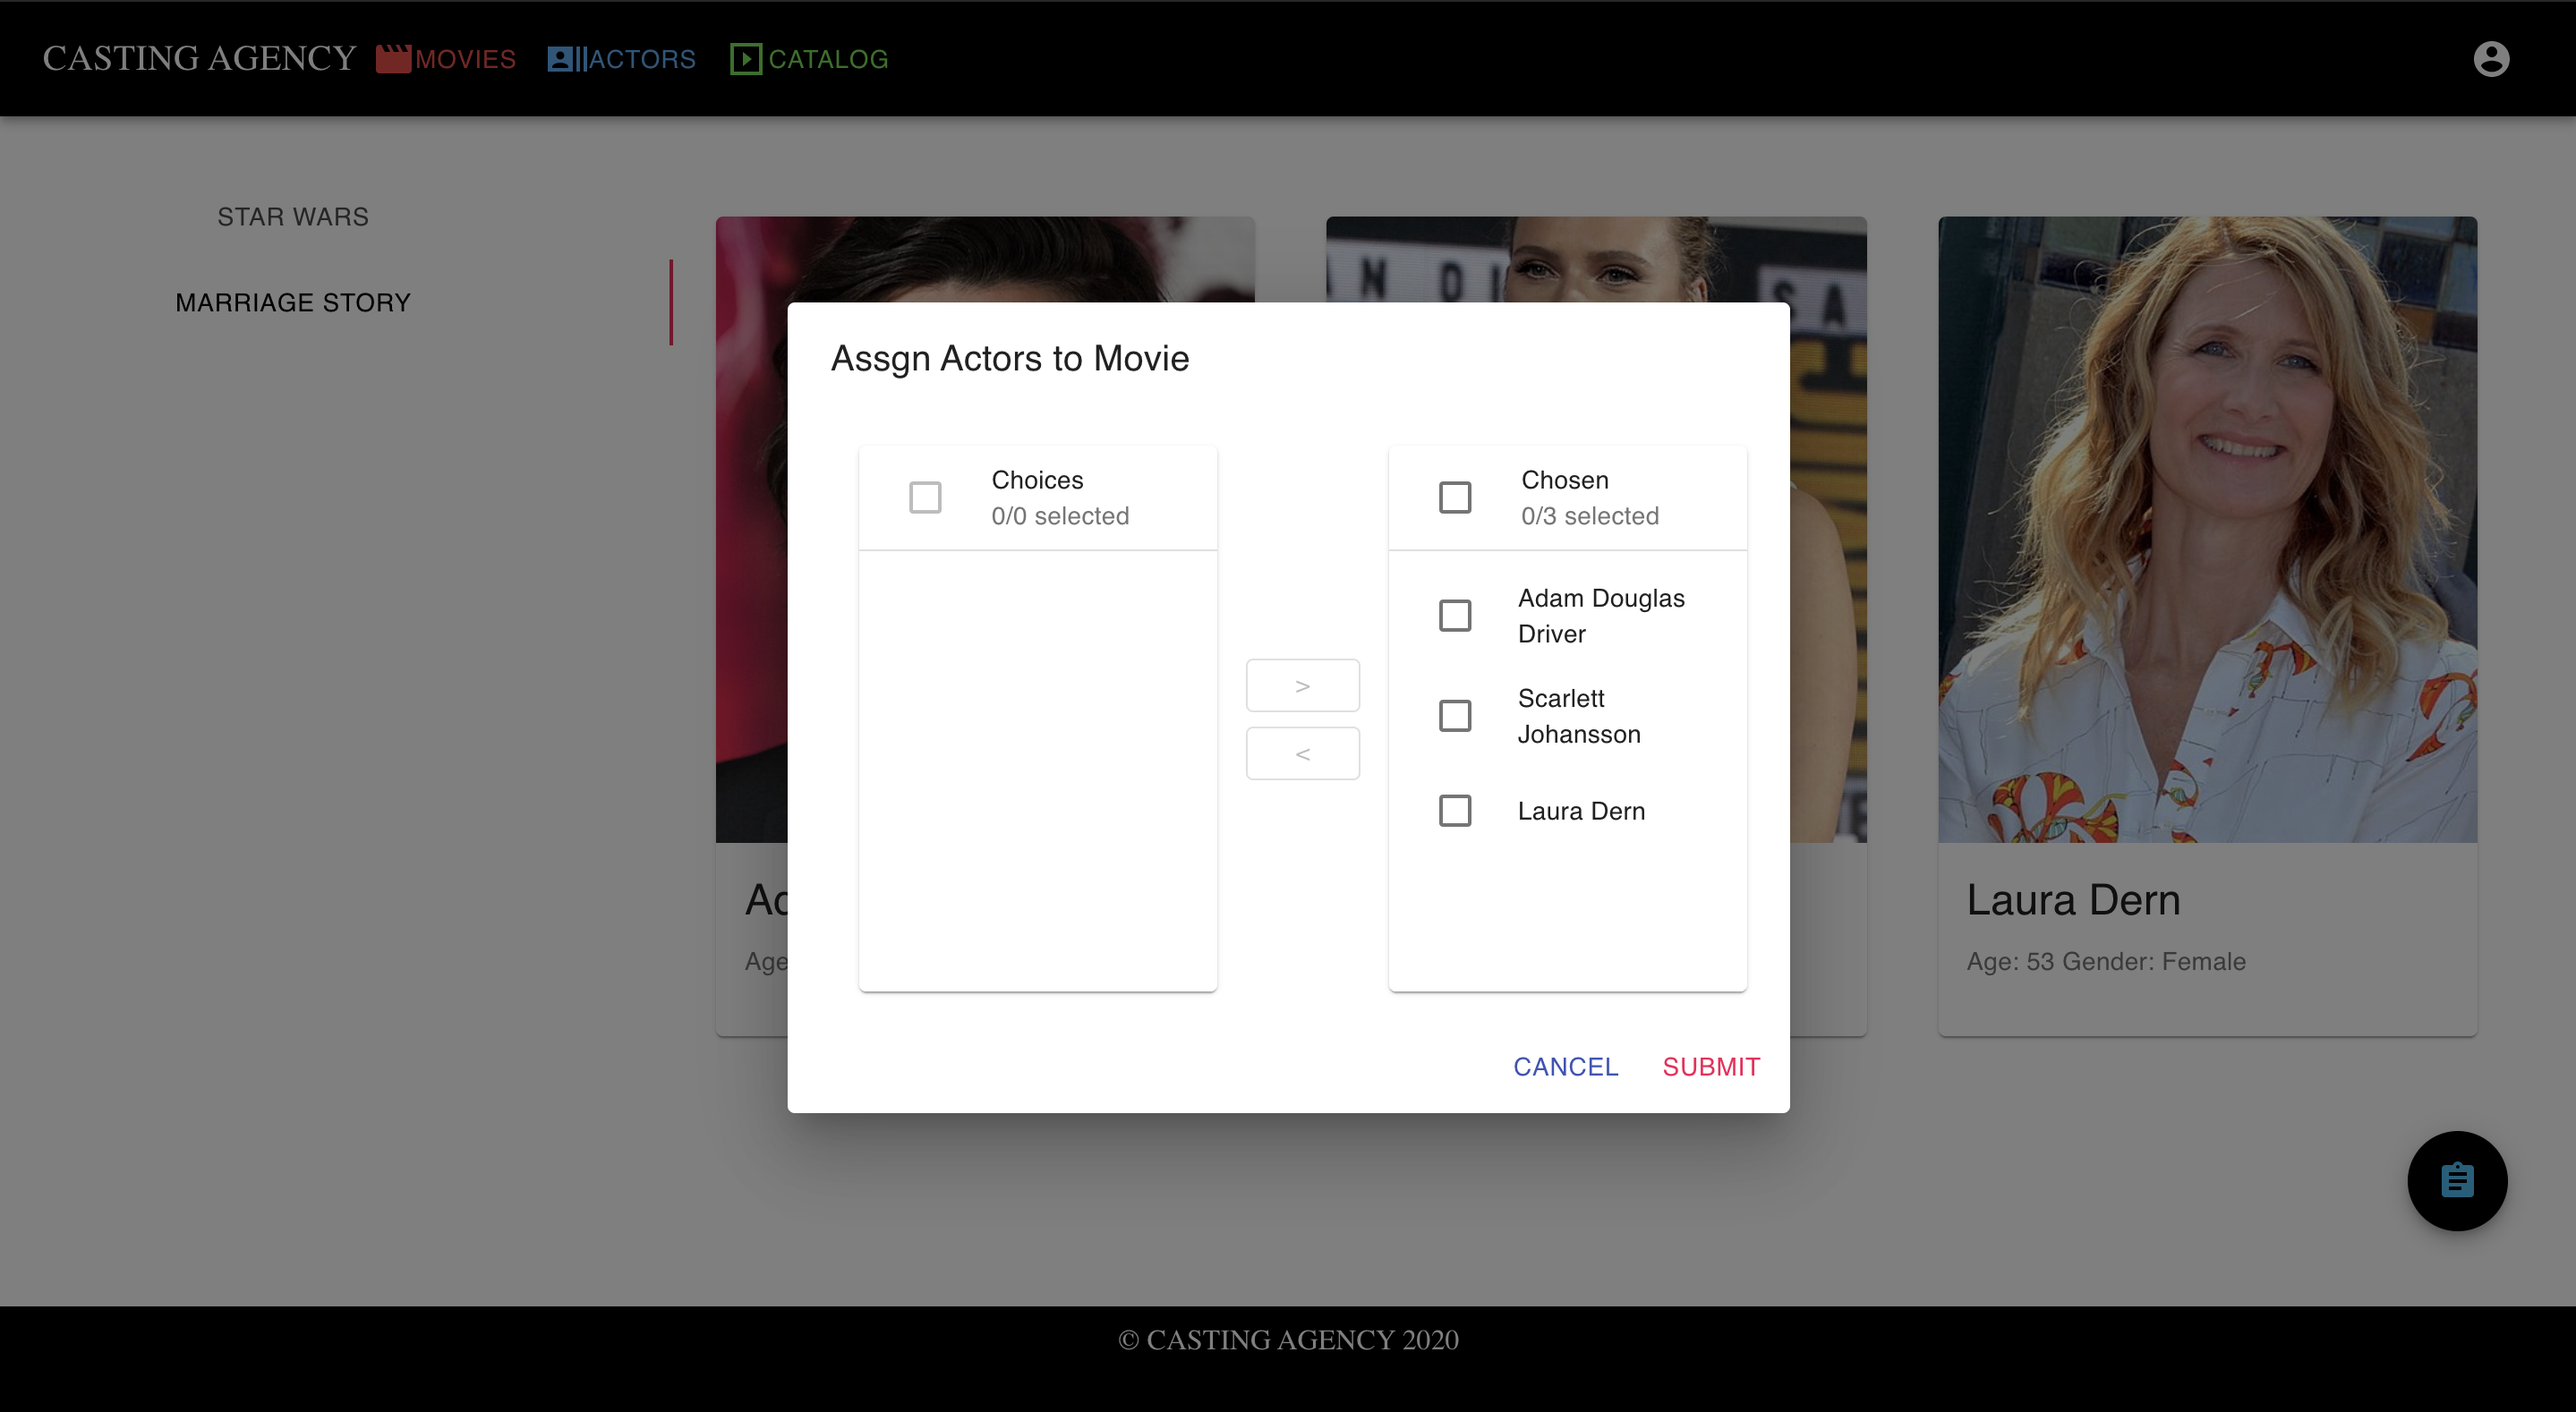
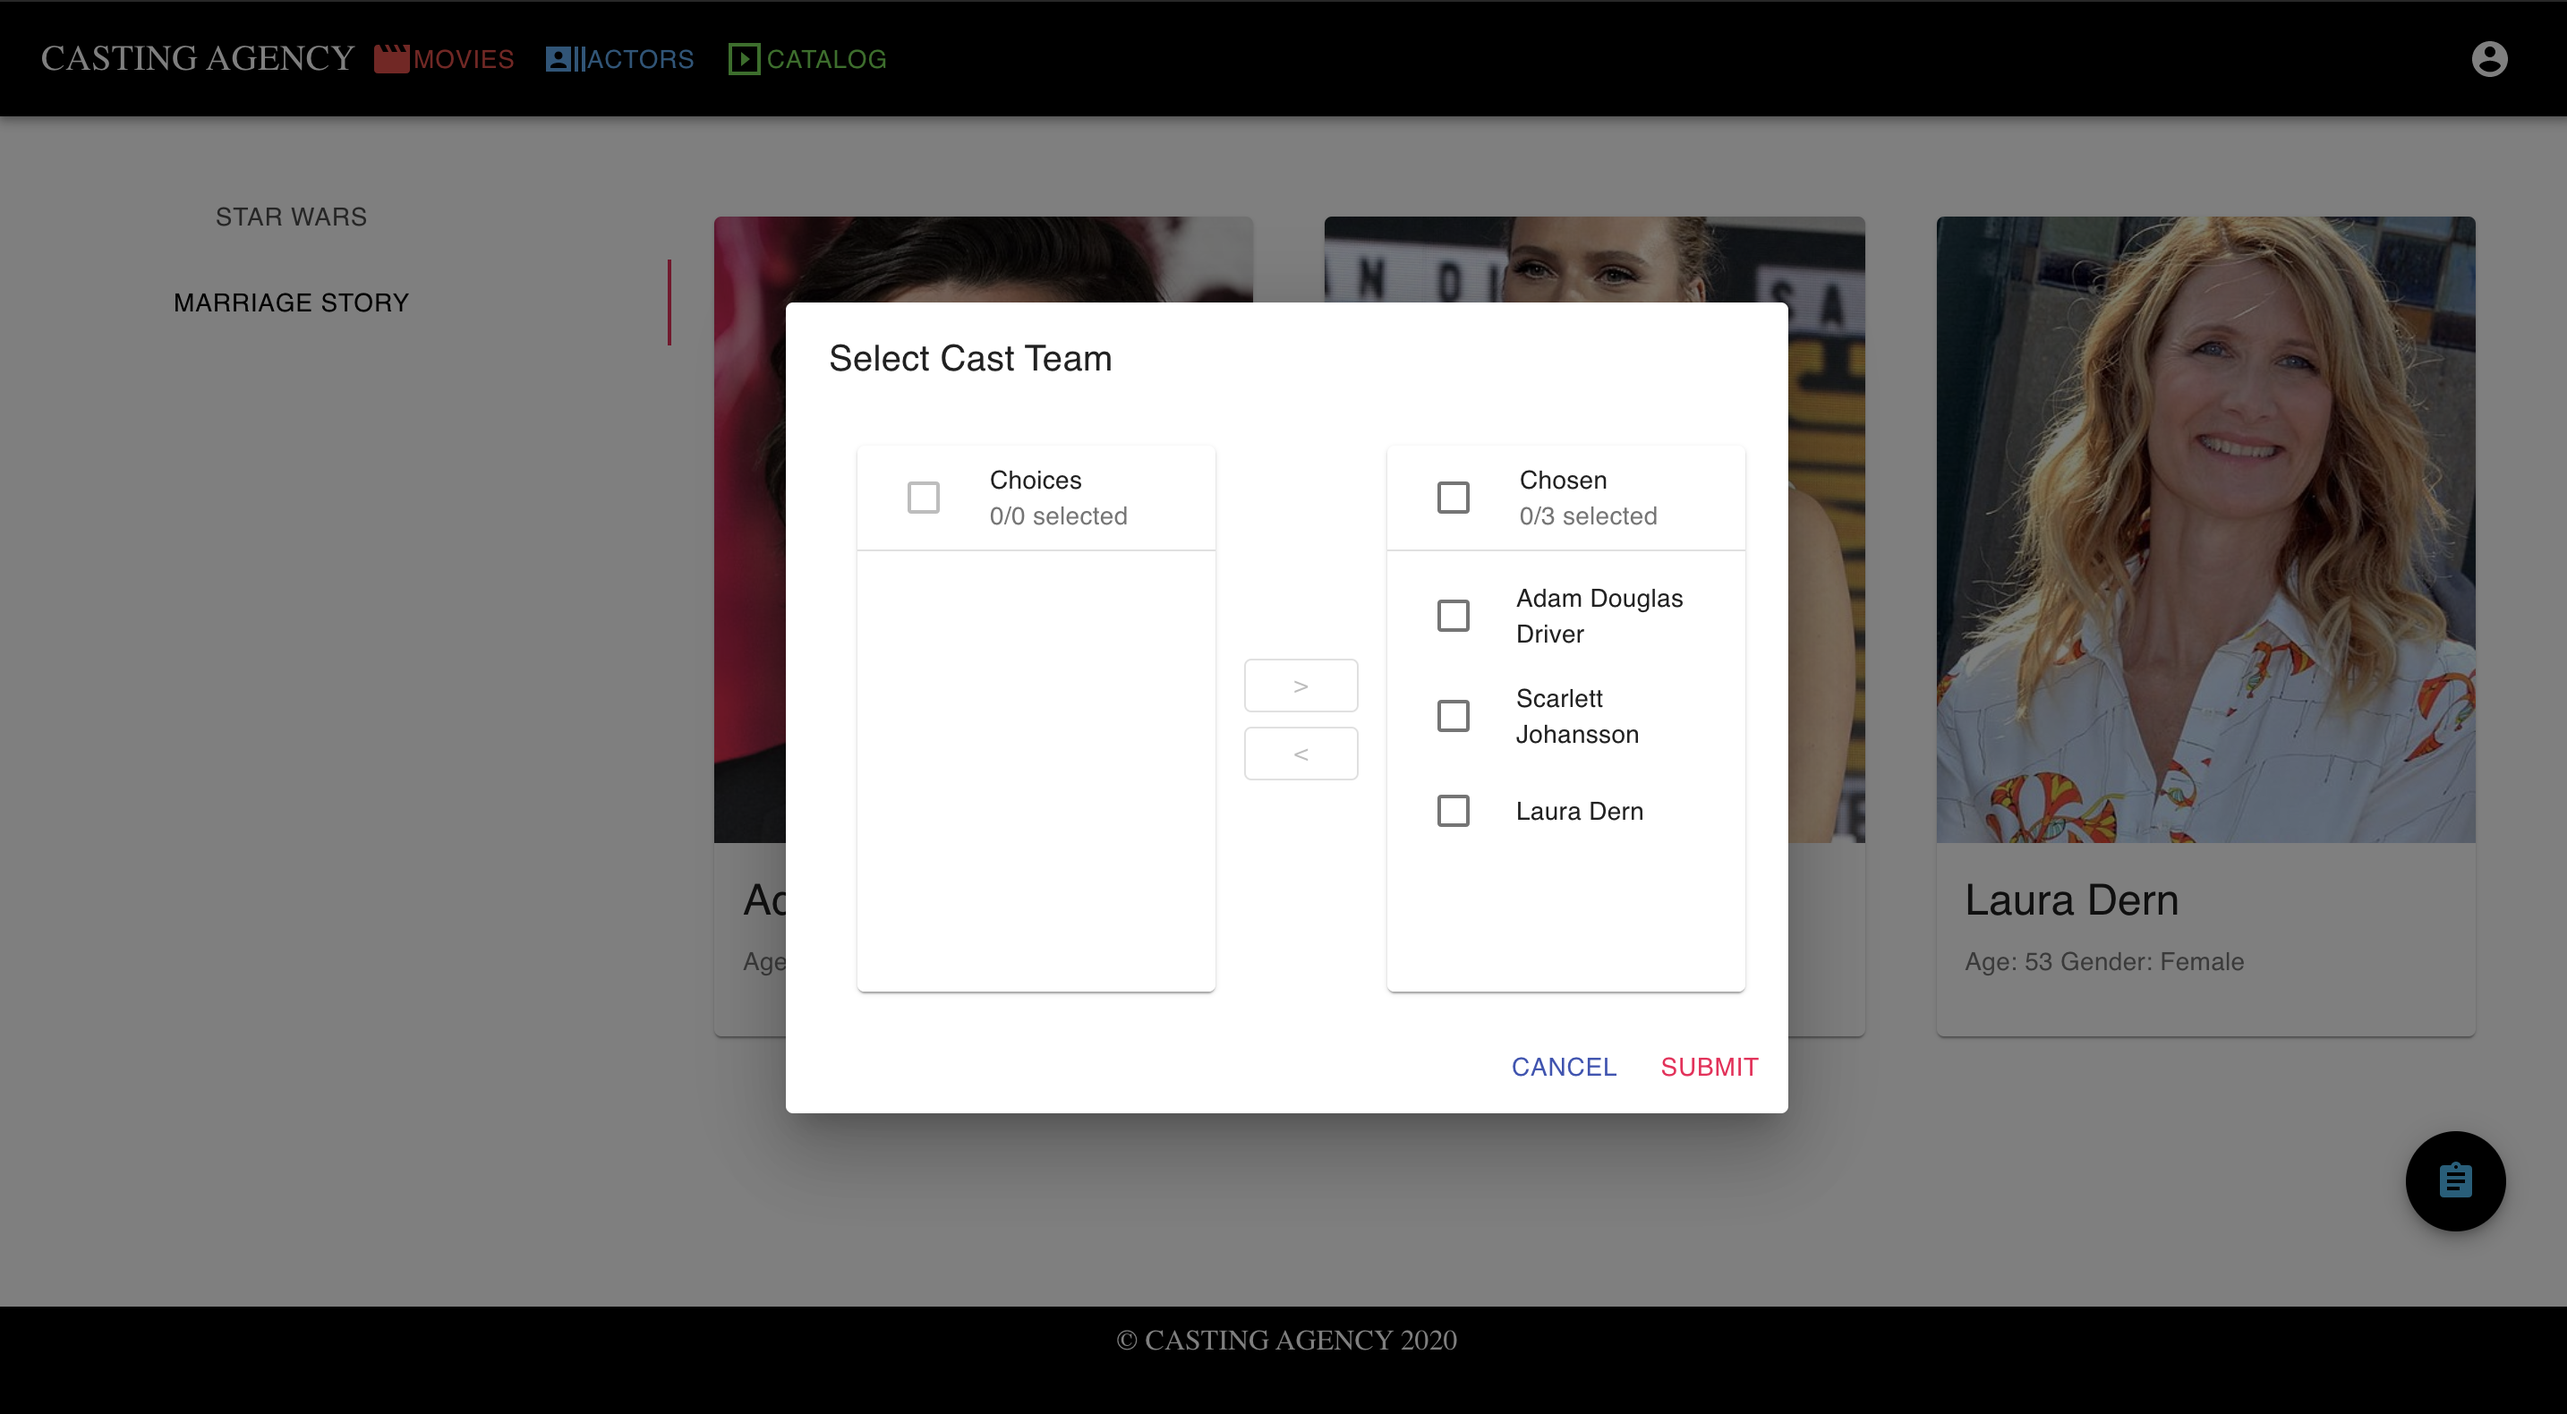
fix: Housekeeping

diff --git a/app/frontend/ca-frontend-app/src/components/CAssignmentDialog.js b/app/frontend/ca-frontend-app/src/components/CAssignmentDialog.js
@@ -24,7 +24,7 @@ const CAssignmentDialog = (props) => {
 
         <Dialog open={toOpenDialog}>
             <DialogTitle>
-                Assgn Actors to Movie
+                Select Cast Team
             </DialogTitle>
             <DialogContent>
                 <CTransferList 
